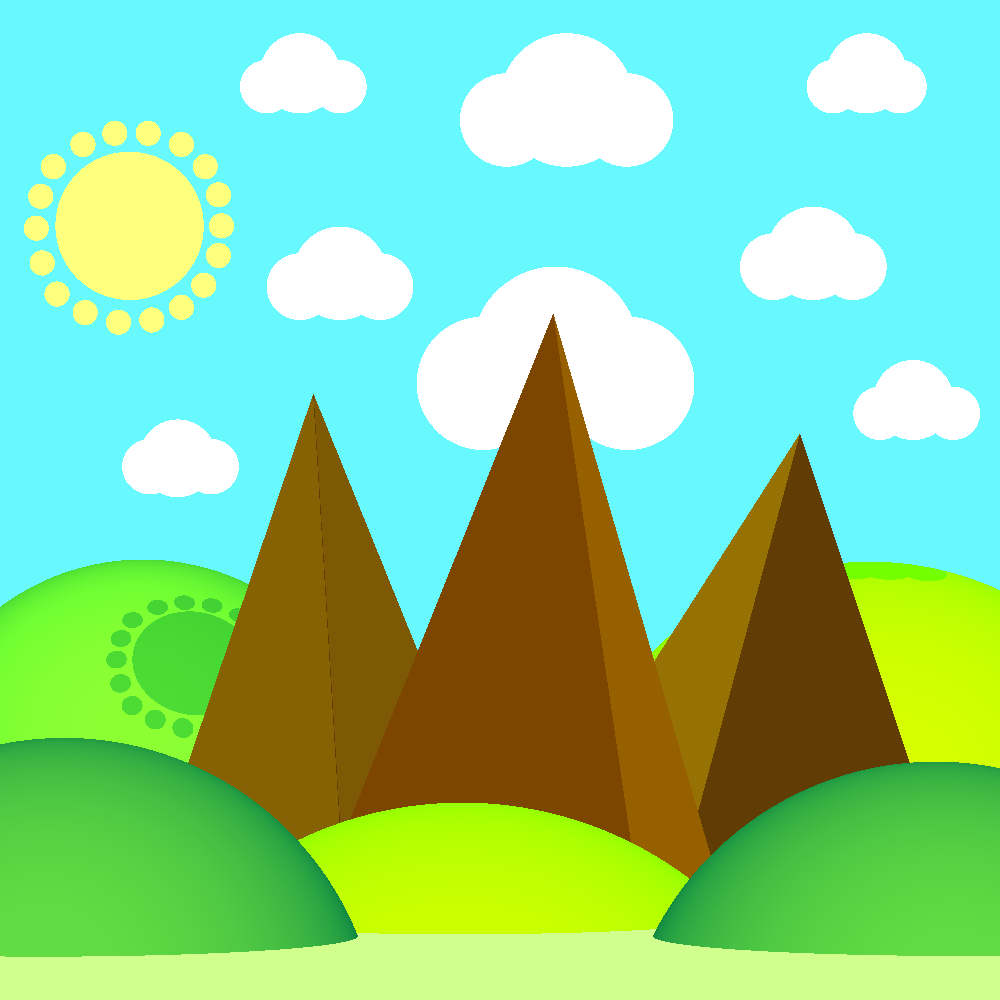
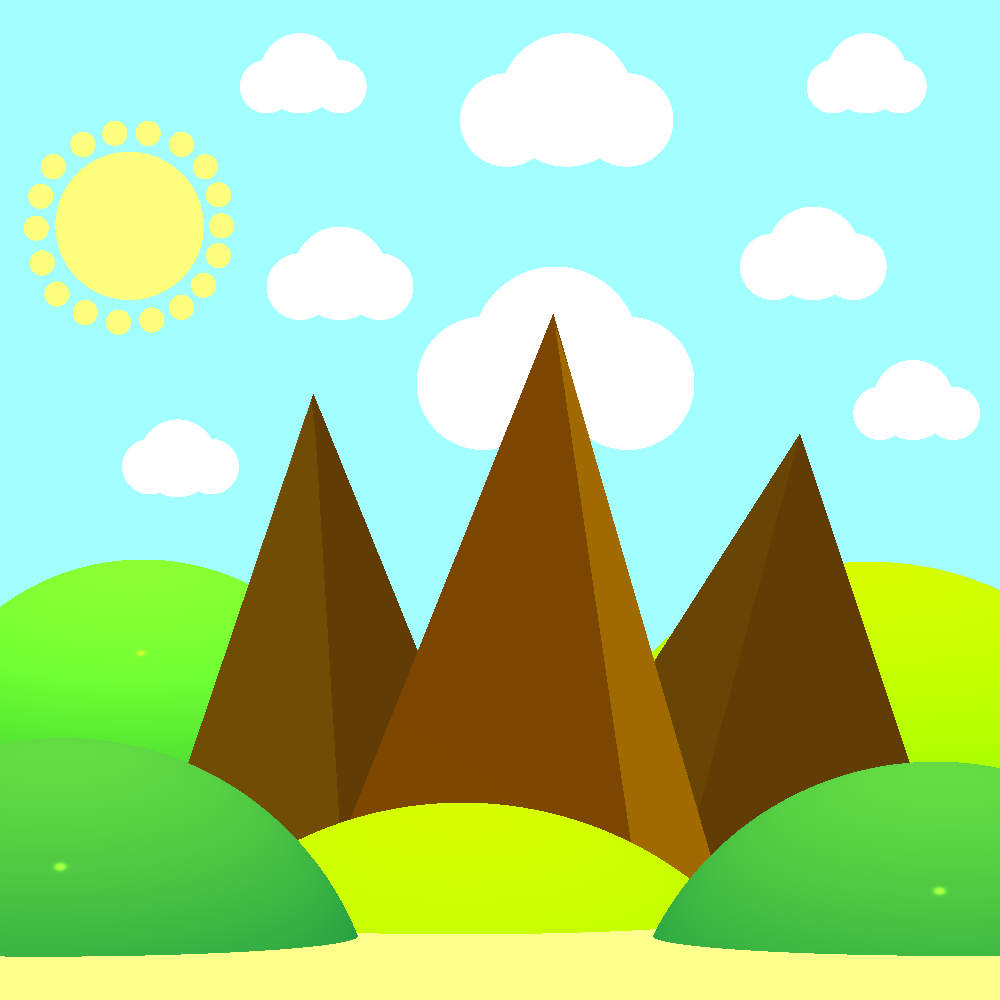
help us. please. someone.

diff --git a/unitTests/renderer/minip1Test.java b/unitTests/renderer/minip1Test.java
@@ -40,15 +40,12 @@ public class minip1Test {
 
 
         scene.getLights().add(
-                new DirectionalLight(new Color(200, 200, 0), new Vector(0,-1 ,-3))
+                new DirectionalLight(new Color(200, 200, 0), new Vector(0,-4 ,-1))
         );
-        /*scene.getLights().add(
-                new DirectionalLight(new Color(200, 200, 0), new Vector(0,0 ,-1))
-        );*/
+        scene.getLights().add(
+                new SpotLight(new Color(600,700,400),new Point(-50,28,-2), new Vector(0,1,0))
+        );
 
-     /*   scene.getLights().add(
-                new PointLight(new Color(153,153,133),new Point( -10,80,200))
-        );*/
 
 
 
